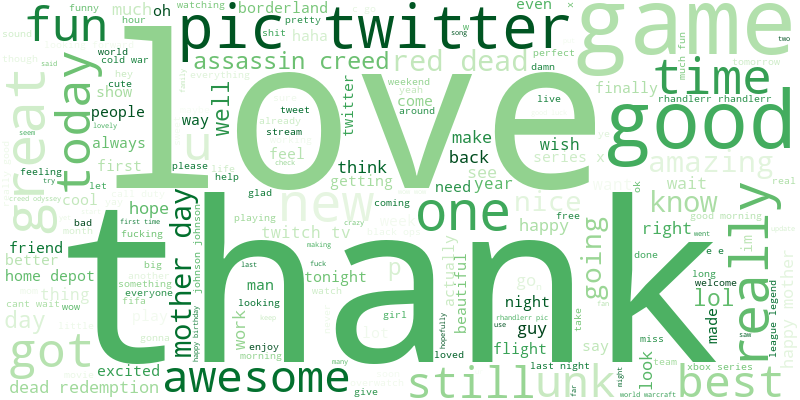
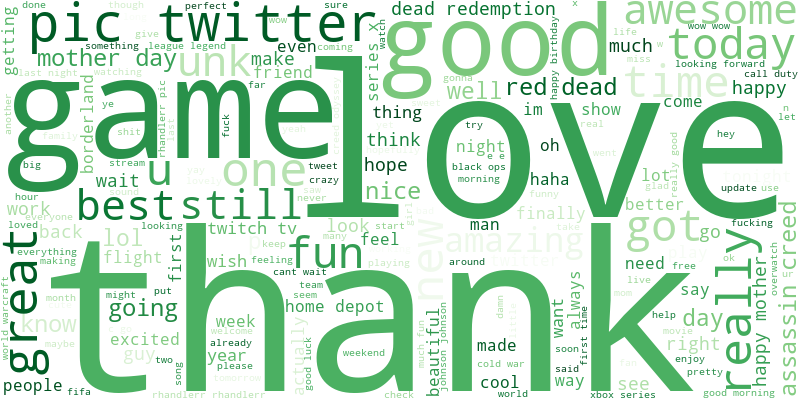
actualiza

diff --git a/scripts/fase_2/analisis_hibrido.py b/scripts/fase_2/analisis_hibrido.py
@@ -136,7 +136,7 @@ def main():
     limit = 8000
     coverage = cumulative_percentage[limit] if limit < len(cumulative_percentage) else 1.0
     
-    plt.axvline(x=limit, color='red', linestyle='--', label=f'Corte en 5,000 palabras')
+    plt.axvline(x=limit, color='red', linestyle='--', label=f'Corte en 8,000 palabras')
     plt.axhline(y=coverage, color='green', linestyle=':', label=f'Cobertura: {coverage:.1%}')
     
     plt.title('Curva de Cobertura del Vocabulario (Ley de Zipf)')
@@ -148,7 +148,7 @@ def main():
     
     plt.tight_layout()
     plt.savefig(os.path.join(folder_name, '4_cobertura_vocabulario.png'))
-    print(f"   -> (NUEVO) 📈 Curva guardada. Demuestra que 5000 palabras cubren el {coverage:.1%} del texto.")
+    print(f"   -> (NUEVO) 📈 Curva guardada. Demuestra que 8000 palabras cubren el {coverage:.1%} del texto.")
 
     # ==============================================================================
     # 5. BIGRAMAS POR SENTIMIENTO (Contexto)

diff --git a/scripts/fase_2/entrenamiento_final.py b/scripts/fase_2/entrenamiento_final.py
@@ -1,7 +1,7 @@
 import pandas as pd
 import numpy as np
 import matplotlib
-matplotlib.use('Agg') # Backend no interactivo
+matplotlib.use('Agg') 
 import matplotlib.pyplot as plt
 import seaborn as sns
 import os
